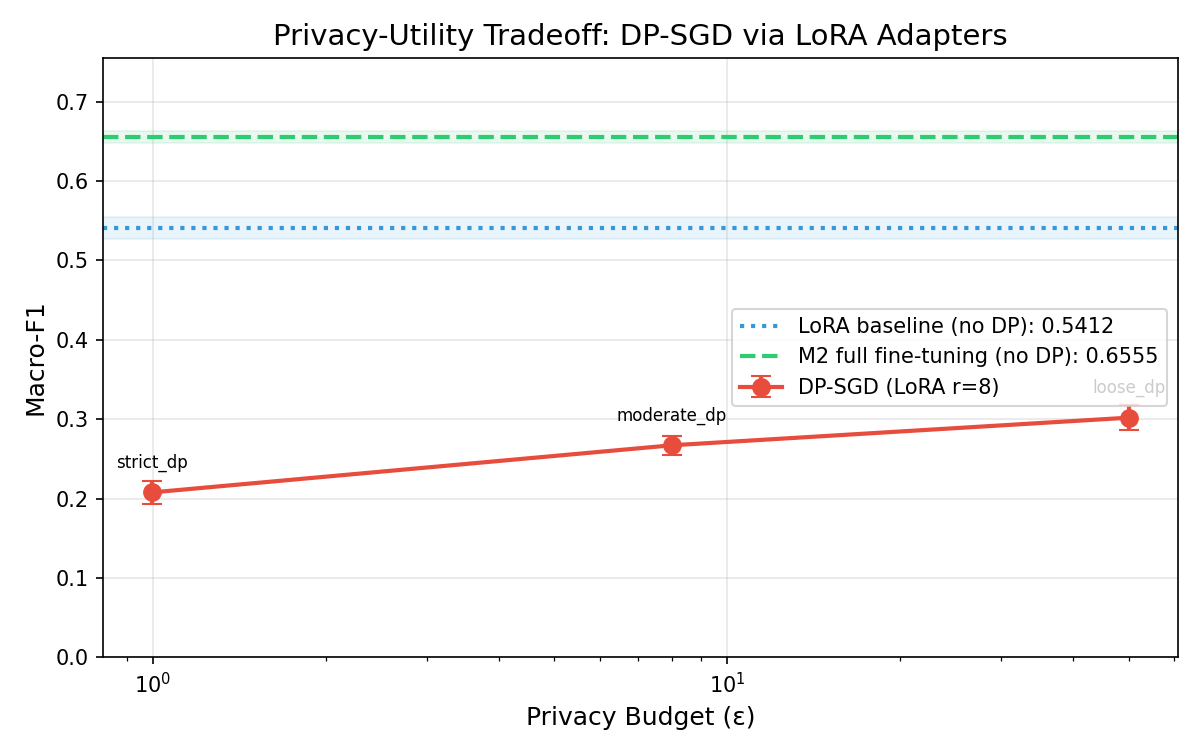
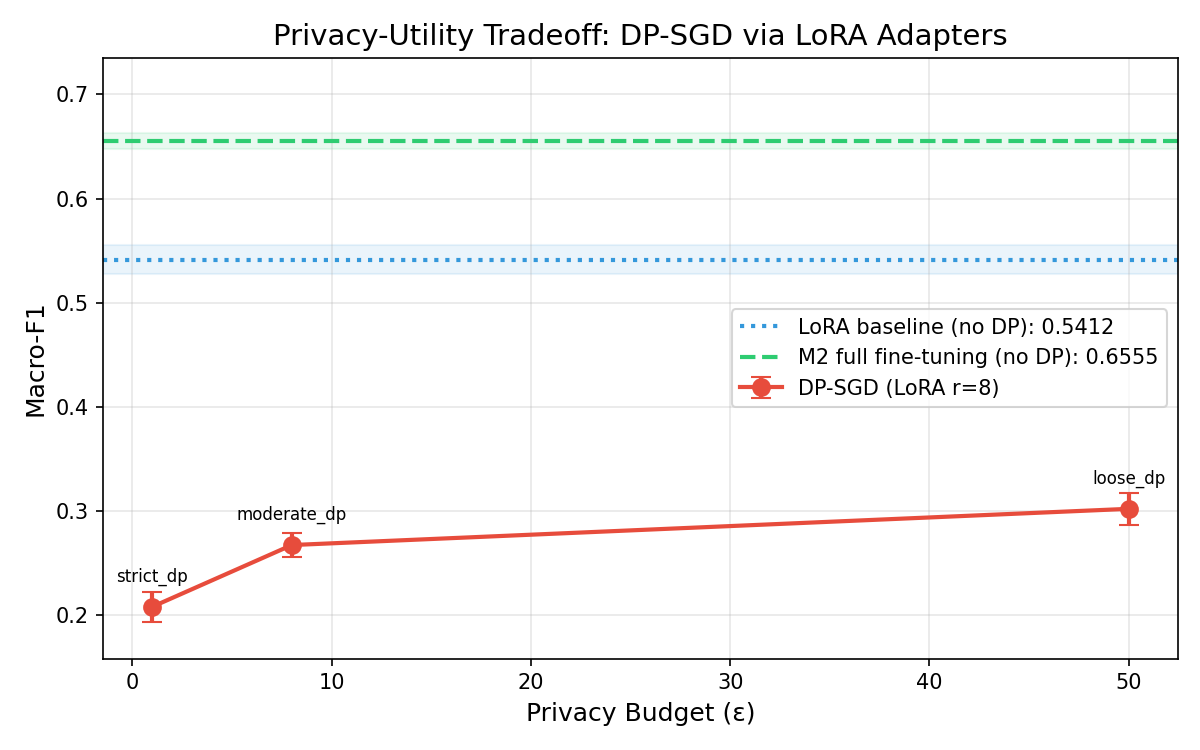
fix: use linear x-axis and tight y-axis for privacy chart
Log-scale x compressed ε=1→50 into a tiny range. Y starting at 0
wasted space below the data. Now linear x-axis and y-axis starts
near the data minimum, making the tradeoff curve clearly visible.

diff --git a/scripts/generate_privacy_charts.py b/scripts/generate_privacy_charts.py
@@ -76,9 +76,11 @@ def plot_privacy_utility_tradeoff():
     ax.set_ylabel("Macro-F1", fontsize=12)
     ax.set_title("Privacy-Utility Tradeoff: DP-SGD via LoRA Adapters", fontsize=14)
     ax.legend(loc="center right", fontsize=10)
-    ax.set_xscale("log")
+    # Linear x-axis to show the full spread; log compresses ε=1→50 too much
     all_f1s = f1s + ([lora_f1] if lora_baseline else []) + ([baseline_f1] if baseline_f1 else [])
-    ax.set_ylim(0, max(0.75, max(all_f1s) + 0.1) if all_f1s else 0.75)
+    ymin = max(0, min(all_f1s) - 0.05) if all_f1s else 0
+    ymax = max(all_f1s) + 0.08 if all_f1s else 0.75
+    ax.set_ylim(ymin, ymax)
     ax.grid(True, alpha=0.3)
 
     fig.tight_layout()
